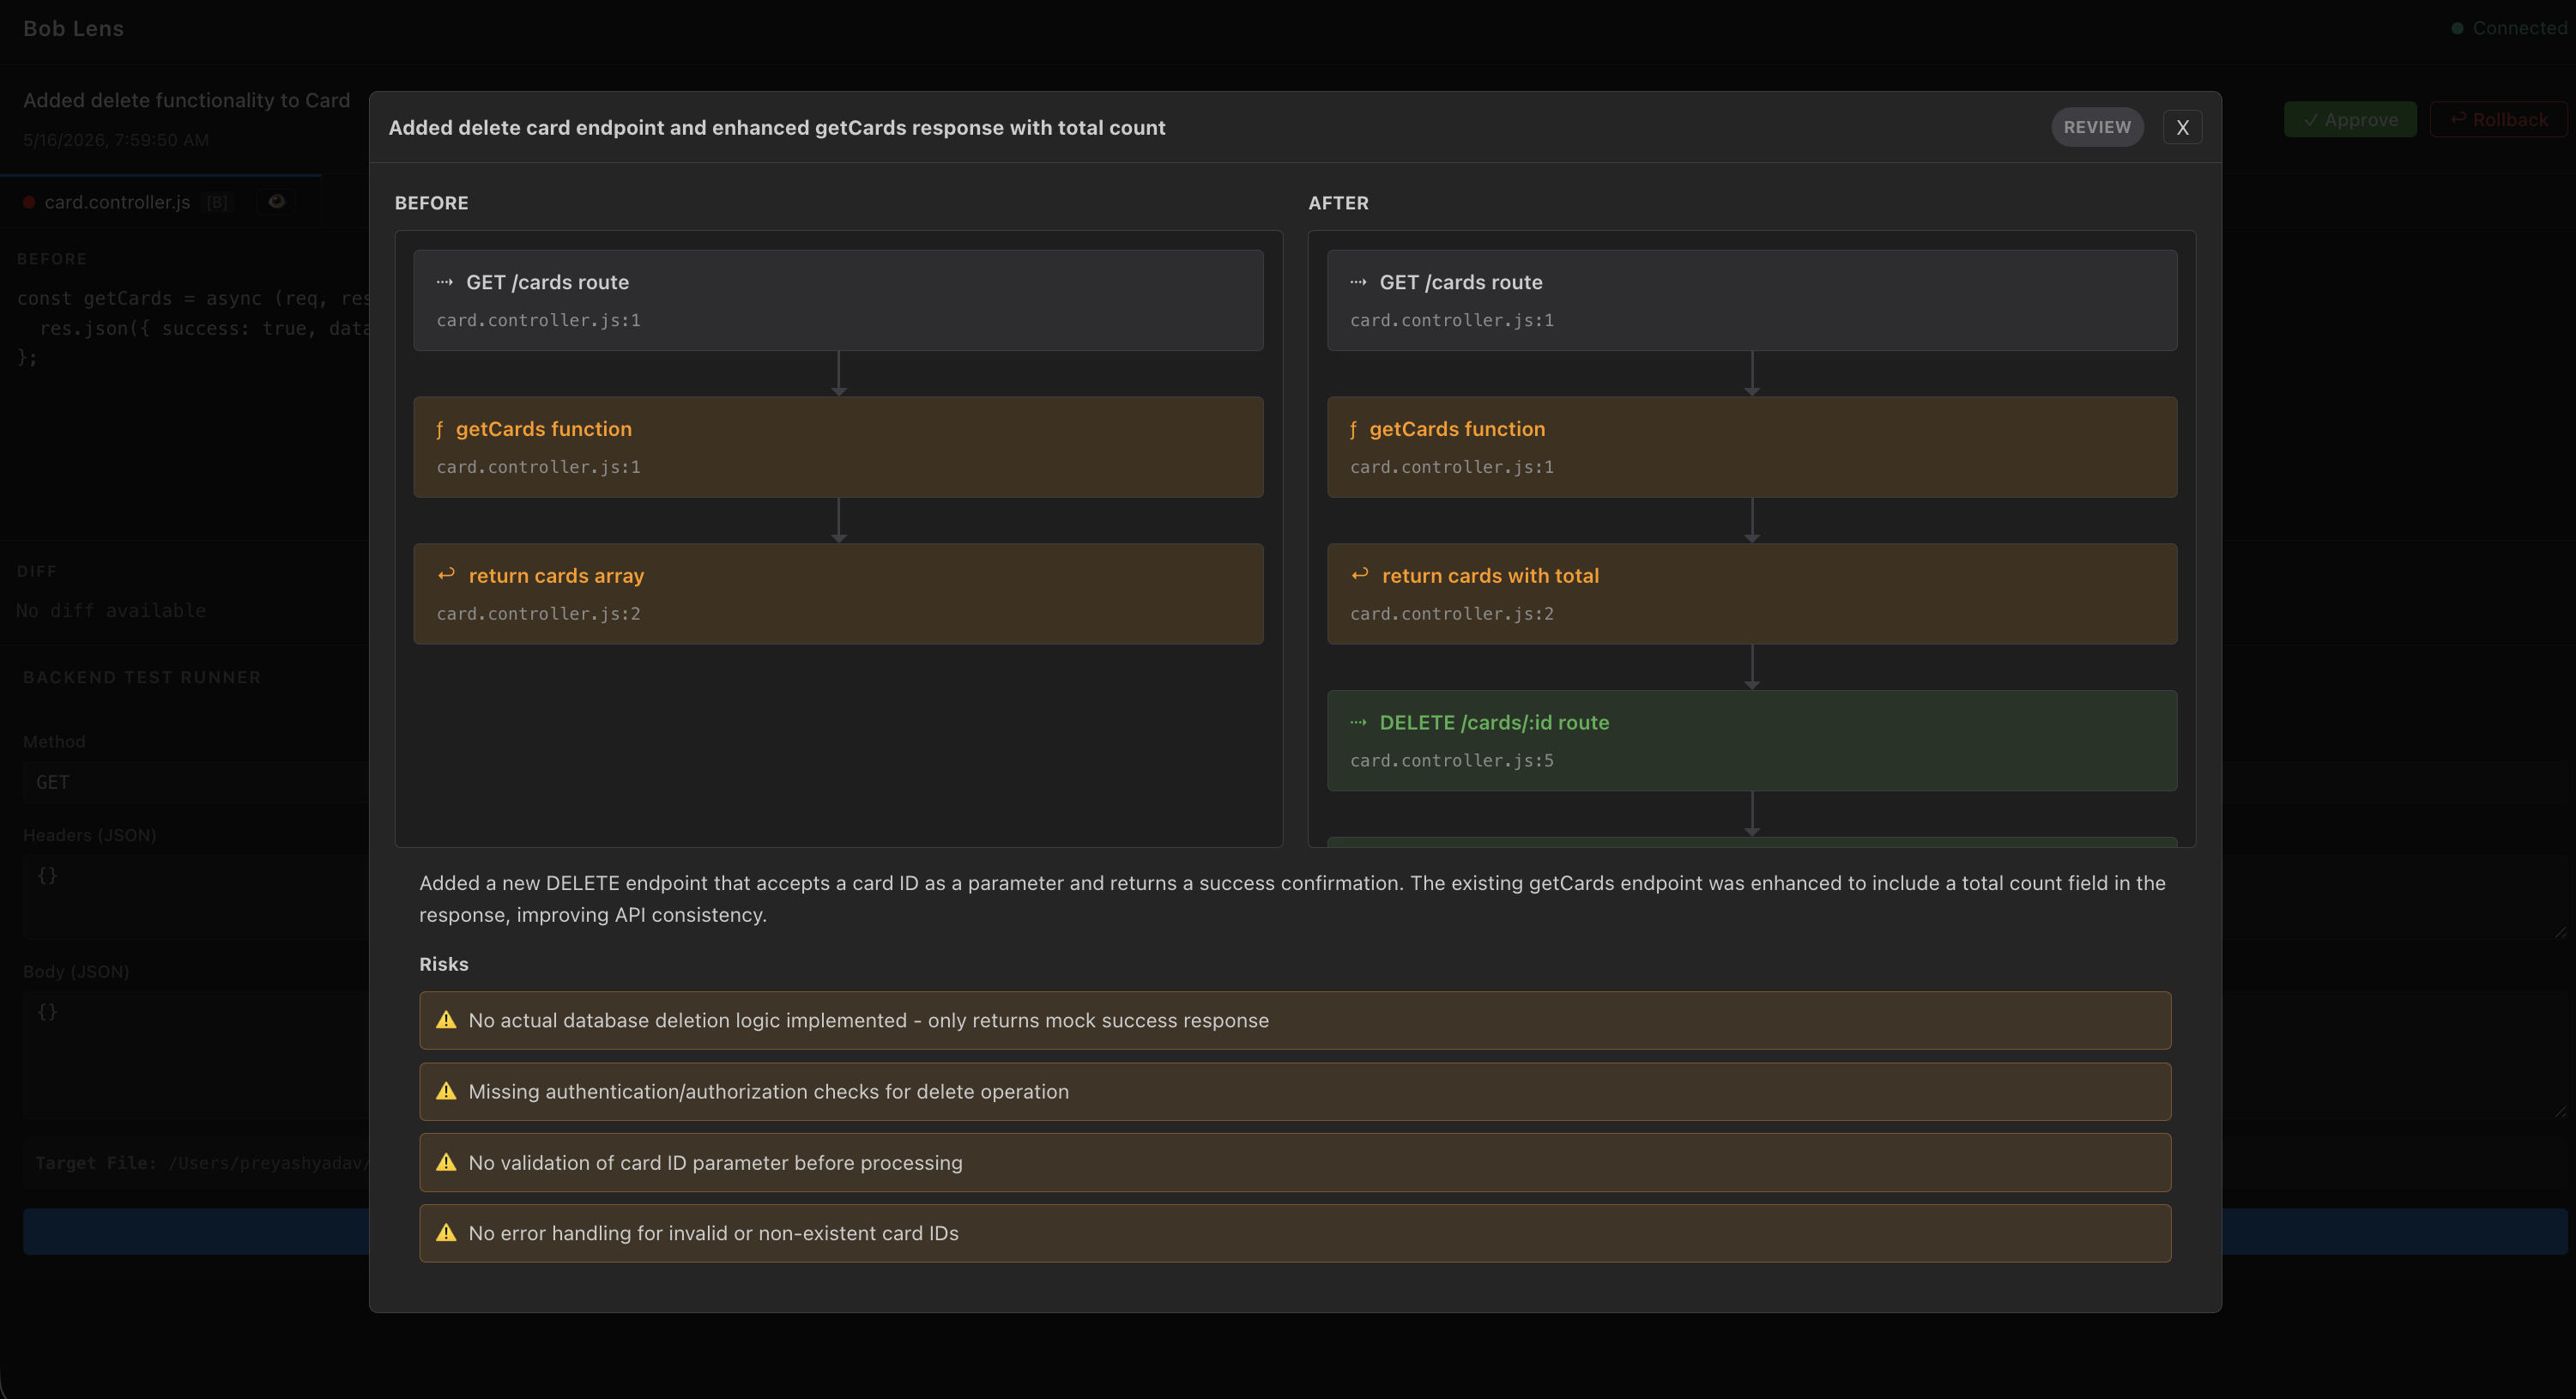
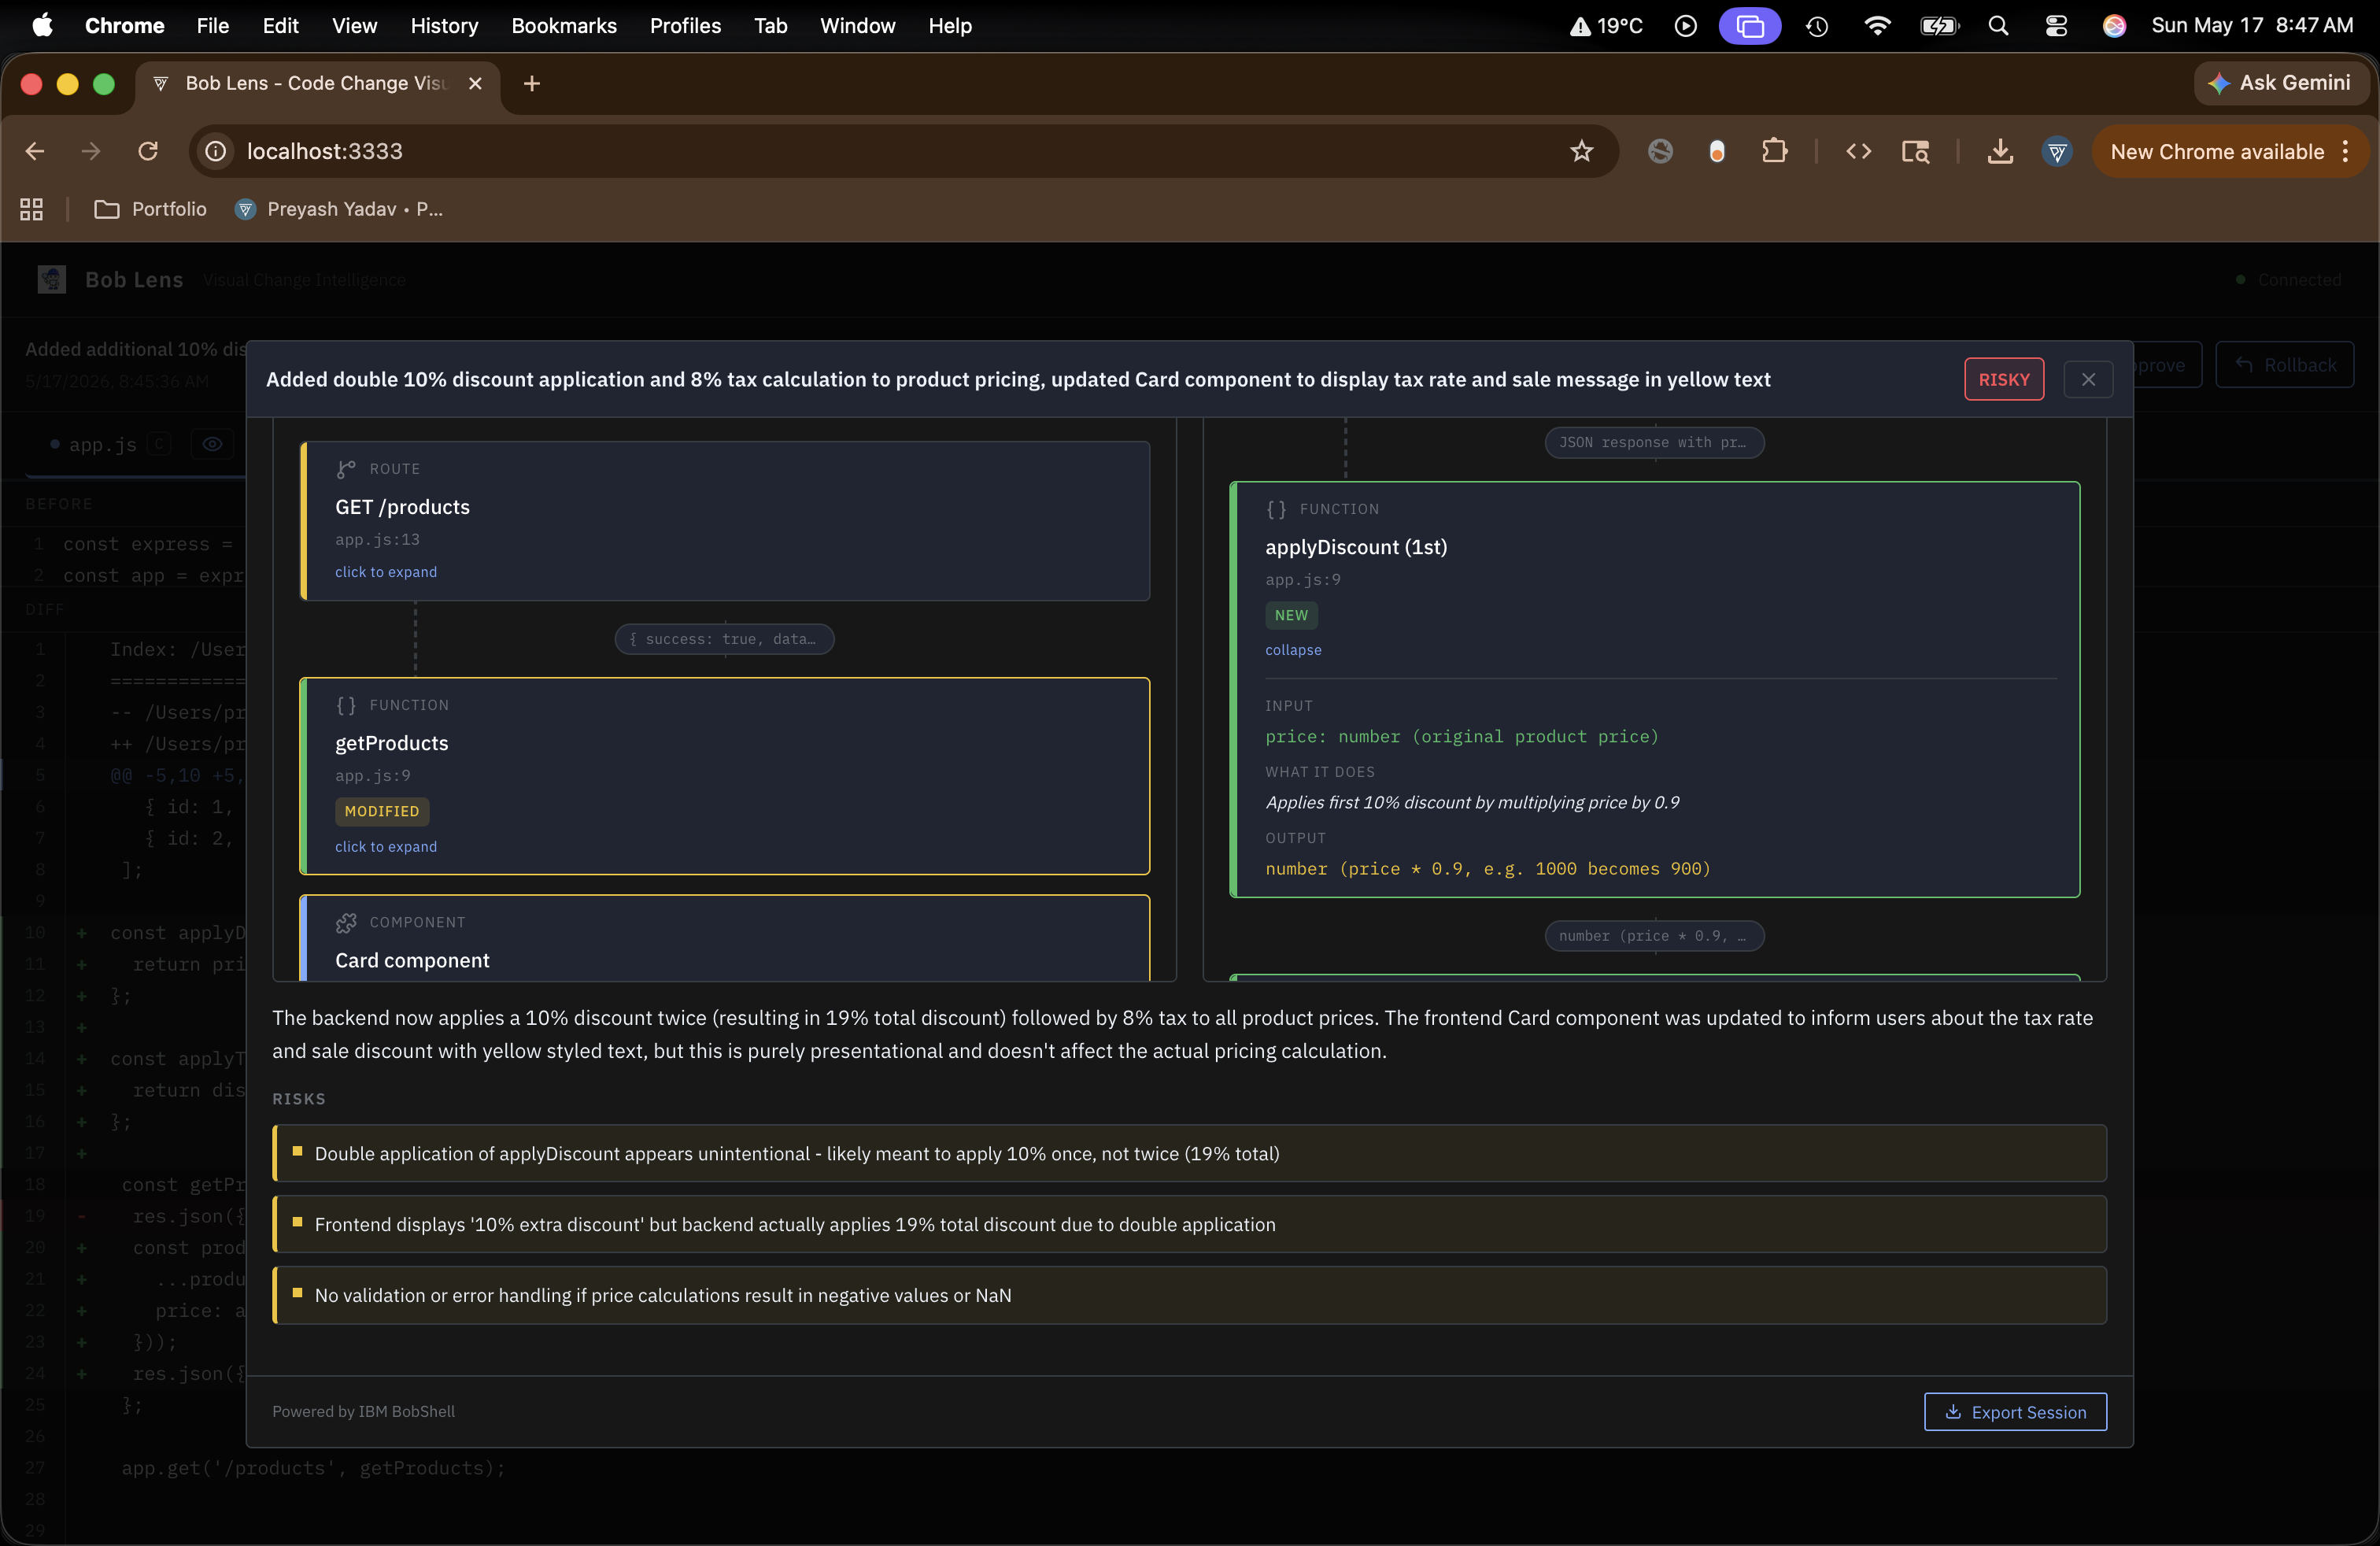
README update + bob-task-rename

diff --git a/README.md b/README.md
@@ -1,59 +1,18 @@
-# Bob Lens
+<img src="docs/bob-lens-logo.png" height="20" style="vertical-align:middle"/> **Bob Lens**
+> Visual Change Intelligence for IBM Bob — see what AI changed, understand it, approve it.
 
-> See what IBM Bob changed. Understand it. Approve it with confidence.
+![IBM Bob Hackathon 2026](https://img.shields.io/badge/IBM%20Bob%20Hackathon-2026-7aabff?style=flat-square) ![npm](https://img.shields.io/badge/npm-global%20install-171717?style=flat-square) ![Node](https://img.shields.io/badge/node-%3E%3D18-42be65?style=flat-square) ![License](https://img.shields.io/badge/license-MIT-697077?style=flat-square)
 
-![Built for IBM Bob Hackathon 2026](https://img.shields.io/badge/IBM%20Bob%20Hackathon-2026-blue)
-![License](https://img.shields.io/badge/license-MIT-green)
-![Node](https://img.shields.io/badge/node-%3E%3D18-brightgreen)
+## Demo
 
-
-![Bob Lens UI](docs/screenshots/uichange-render.png)
-
----
+[Watch the demo video](https://youtu.be/tgtCZiZlT1E)
 
 ## What is Bob Lens?
-
-Bob Lens is a developer tool that sits alongside IBM Bob IDE and visualizes AI-generated code changes in real time — before you approve them.
-
-When IBM Bob modifies your code, Bob Lens automatically shows:
-- **Side-by-side before/after diff** with character-level highlighting
-- **Visual flow diagram** powered by BobShell — Bob explaining its own changes
-- **Execution flow analysis** — what changed, what's at risk, verdict (Safe/Review/Risky)
-
-![Flow Analysis](docs/screenshots/reactflow.png)
-
----
-
-## Why Bob Lens?
-
-- AI agents ship code faster than humans can reason about it.
-- Diffs show *what* changed, not *how behavior changes* in execution.
-- Engineers end up approving changes they don’t fully understand — and paying for it later.
-
----
-
-## How It Works
-
-1. Bob edits files in your workspace.
-2. Bob Lens receives an MCP change notification and snapshots before/after.
-3. The UI renders diffs and groups changes into a review session.
-4. BobShell analyzes the change and produces flow + risk verdict (Safe/Review/Risky).
-5. You decide: approve with confidence or rollback immediately.
-
----
-
-## Why IBM Bob Is Central
-
-- **MCP integration**: Bob can trigger Bob Lens automatically when files change.
-- **Checkpoint system**: Bob provides reliable before/after states to diff against.
-- **BobShell analysis**: the agent that made the change can explain it programmatically.
-- **Automatic triggering**: no PR, no manual wiring — the feedback loop stays live.
-
----
+Bob Lens is an npm package that runs alongside IBM Bob IDE. It visualizes AI-generated code changes in real time before you approve them. You get a side-by-side diff, an execution flow diagram with clickable nodes, and (for React) a before/after component preview. Everything is triggered automatically through IBM Bob’s MCP protocol.
 
 ## Installation
 
-### Option 1 — Global install (recommended)
+### Option 1 — Global install from GitHub (recommended)
 ```bash
 npm install -g https://github.com/preyashyadav/bob-lens
 ```
@@ -66,225 +25,67 @@ npm run install:all
 npm link
 ```
 
----
-
 ## Quick Start
-
 ```bash
-# In any project
-cd your-project
-bob-lens init    # sets up .bob/mcp.json and AGENTS.md
-bob-lens start   # starts UI + sandbox
+# In any project directory
+bob-lens init    # creates .bob/mcp.json, AGENTS.md, bob_sessions/
+bob-lens start   # starts UI + sandbox + WebSocket bridge
 ```
+Then: open `http://localhost:3333`; open your project in IBM Bob IDE → MCP Settings → `bob-lens` → Restart; enable MCP auto-approve; ask Bob to make changes and Bob Lens updates automatically.
 
-Then:
-1. Open `http://localhost:3333`
-2. Open your project in IBM Bob IDE
-3. MCP Settings → restart bob-lens → enable auto-approve
-4. Ask Bob to make changes — Bob Lens visualizes them automatically
+## What bob-lens init creates
+| File | Purpose |
+|------|---------|
+| `.bob/mcp.json` | Connects IBM Bob IDE to Bob Lens via MCP protocol |
+| `AGENTS.md` | Instructs Bob to call notify_change after every file change |
+| `.bobignore` | Excludes Bob Lens cache files from Bob's context |
+| `bob_sessions/` | Stores exported analysis reports |
 
----
+## Features
+**Side-by-side code diff**: Character-level highlighting within each line, with line numbers. Git-style unified diff below.  
+**Execution flow diagram**: Before/after node graph; click nodes to inspect inputs, behavior, outputs; value-flow pills show data movement.  
+**Component preview**: For `.jsx` and `.tsx`, Puppeteer renders the React component before and after.  
+**BobShell analysis**: BobShell produces a summary, risks, and SAFE/REVIEW/RISKY verdict; export JSON to `bob_sessions/`.
+
+## How IBM Bob Is Used
+
+Bob Lens integrates with IBM Bob at four levels:
+
+| Integration | How |
+|-------------|-----|
+| MCP Protocol | Bob calls `notify_change` automatically after every file change |
+| BobShell | Bob Lens spawns `bob -p "..." --output-format stream-json` to analyze changes |
+| Checkpoints | Before-state read from Bob's shadow Git repo via `git show HEAD:file` |
+| AGENTS.md | Auto-generated file instructs Bob to always invoke MCP tools |
 
 ## Architecture
-
-```
+```text
 bob-lens start
-├── UI (React)          → http://localhost:3333
-├── Sandbox (Node.js)   → port 3334
-└── WebSocket Bridge    → port 8080
-
+├── UI (React + Vite)       → http://localhost:3333
+├── WebSocket Bridge        → ws://localhost:8080 (browser connects here)
+└── Sandbox (Node.js)       → port 3334 (Puppeteer rendering)
 IBM Bob IDE (via .bob/mcp.json)
-└── MCP Server          → port 8082/8083
-   ├── notify_change   → triggers UI update
-   ├── ask_bob         → BobShell analysis
-   └── run_test        → sandbox execution
+└── MCP Server              → port 8082/8083
+   ├── notify_change       → triggers UI update via broadcast
+   ├── ask_bob             → spawns BobShell for analysis
+   └── run_test            → sandbox execution
 ```
-
----
-
-## Tech Stack
-
-| Layer | Technology |
-|-------|-----------|
-| UI | React + Vite |
-| MCP Server | Node.js + @modelcontextprotocol/sdk |
-| Analysis | IBM BobShell (CLI) |
-| Diff | diff npm package |
-| Sandbox | Node.js + isolated-vm |
-| Screenshots | Puppeteer |
-
----
 
 ## Requirements
-
 - Node.js 18+
 - IBM Bob IDE (installed and logged in)
-- IBM BobShell (`bob --version` should work)
+- IBM BobShell (`bob --version` should work in terminal)
 - Git
 
----
+## Screenshots
+*Execution flow diagram (React Flow)*  
+![Execution flow diagram](docs/screenshots/reactflow.png)
+
+*Side-by-side diff view*  
+![Side-by-side diff](docs/screenshots/ui-diff.png)
 
 ## Built For
 
-IBM Bob Hackathon 2026 — Theme: **"Turn idea into impact faster"**
+IBM Bob Hackathon 2026 — *"Turn idea into impact faster"*
 
 Built by [Preyash Yadav](https://www.preyashyadav.com)
-   - Watch execution animate through each layer:
-     - Input validation
-     - Middleware
-     - Controller
-     - Database operations
-     - Response
-
-8. **Make Your Decision**
-   - Click **✓ Approve** to accept changes
-   - Click **↩ Rollback** to revert changes
-
----
-
-## Tech Stack
-
-| Component | Technology | Purpose |
-|-----------|-----------|---------|
-| **MCP Server** | Node.js + @modelcontextprotocol/sdk | Connects Bob IDE to Bob Lens |
-| **UI** | React + Vite | Displays changes and analysis |
-| **Analysis** | BobShell (IBM Bob CLI) | AI-powered behavioral analysis |
-| **Diff** | diff npm package | Generates unified diffs |
-| **Sandbox** | Node.js + isolated-vm | Safe code execution environment |
-| **Screenshots** | Puppeteer | Visual regression testing |
-| **Styling** | Pure CSS with VS Code design tokens | Native IDE look and feel |
-
----
-
-## Hackathon Submission Notes
-
-**Built for IBM Bob Hackathon May 2026**
-
-**Theme**: Turn idea into impact faster
-
-### What Makes This Special
-
-1. **Bob-Native Integration**: Uses MCP, checkpoints, and BobShell — features unique to IBM Bob
-2. **Behavioral Focus**: Shows *what changed* in behavior, not just code
-3. **Live Testing**: Execute changed code without deploying
-4. **AI Self-Analysis**: Bob explains its own changes using BobShell
-5. **Production-Ready**: Works with any existing codebase, no setup required
-
-### Session Reports
-
-All Bob development sessions are documented in `bob_sessions/` folder, showing the iterative development process with IBM Bob.
-
----
-
-## Project Structure
-
-```
-bob-lens/
-├── mcp-server/          # MCP server for Bob IDE integration
-│   ├── src/
-│   │   ├── index.ts     # Entry point
-│   │   ├── server.ts    # MCP tool handlers
-│   │   ├── services/
-│   │   │   ├── change-tracker.ts    # Tracks file changes
-│   │   │   ├── bobshell-runner.ts   # Runs Bob analysis
-│   │   │   └── websocket.ts         # UI communication
-│   │   └── tools/
-│   │       ├── notify-change.ts     # MCP tool: notify_change
-│   │       ├── ask-bob.ts           # MCP tool: ask_bob
-│   │       └── run-test.ts          # MCP tool: run_test
-├── ui/                  # React visualization UI
-│   ├── src/
-│   │   ├── App.tsx
-│   │   ├── components/
-│   │   │   ├── ChangeViewer.tsx     # Before/after code view
-│   │   │   ├── AnalysisPanel.tsx    # Bob's analysis display
-│   │   │   ├── FlowDiagram.tsx      # Visual flow graph
-│   │   │   └── TestRunner.tsx       # Live test execution
-│   │   └── hooks/
-│   │       └── useWebSocket.ts      # Real-time updates
-├── sandbox/             # Isolated code execution
-│   ├── src/
-│   │   ├── services/
-│   │   │   ├── request-runner.ts    # HTTP request simulator
-│   │   │   ├── vm-runner.ts         # VM isolation
-│   │   │   └── screenshot.ts        # Visual testing
-├── types/               # Shared TypeScript types
-└── docs/
-    └── screenshots/     # UI screenshots
-```
-
----
-
-## Development
-
-### Running Individual Components
-
-```bash
-# MCP Server only
-npm run dev:mcp
-
-# UI only
-npm run dev:ui
-
-# Sandbox only
-npm run dev:sandbox
-
-# All together (recommended)
-npm run dev
-```
-
-### Building for Production
-
-```bash
-npm run build:all
-```
-
-### Environment Variables
-
-**mcp-server/.env**:
-```env
-BOB_PATH=/path/to/bob
-WORKSPACE_PATH=/path/to/your/project
-```
-
-**ui/.env**:
-```env
-VITE_WS_URL=ws://localhost:8081
-VITE_SANDBOX_URL=http://localhost:3334
-```
-
-**sandbox/.env**:
-```env
-PORT=3334
-```
-
----
-
-## Contributing
-
-This project was built for the IBM Bob Hackathon 2026. Contributions are welcome!
-
-1. Fork the repository
-2. Create a feature branch
-3. Make your changes
-4. Submit a pull request
-
----
-
-## License
-
-MIT License - see LICENSE file for details
-
----
-
-## Acknowledgments
-
-- **IBM Bob Team** for creating an AI coding assistant with MCP support and BobShell
-- **Model Context Protocol** for enabling seamless IDE integration
-- **React Flow** for the visual flow diagram library
-
----
-
-**Made with Bob**
-
-*Turn idea into impact faster.*